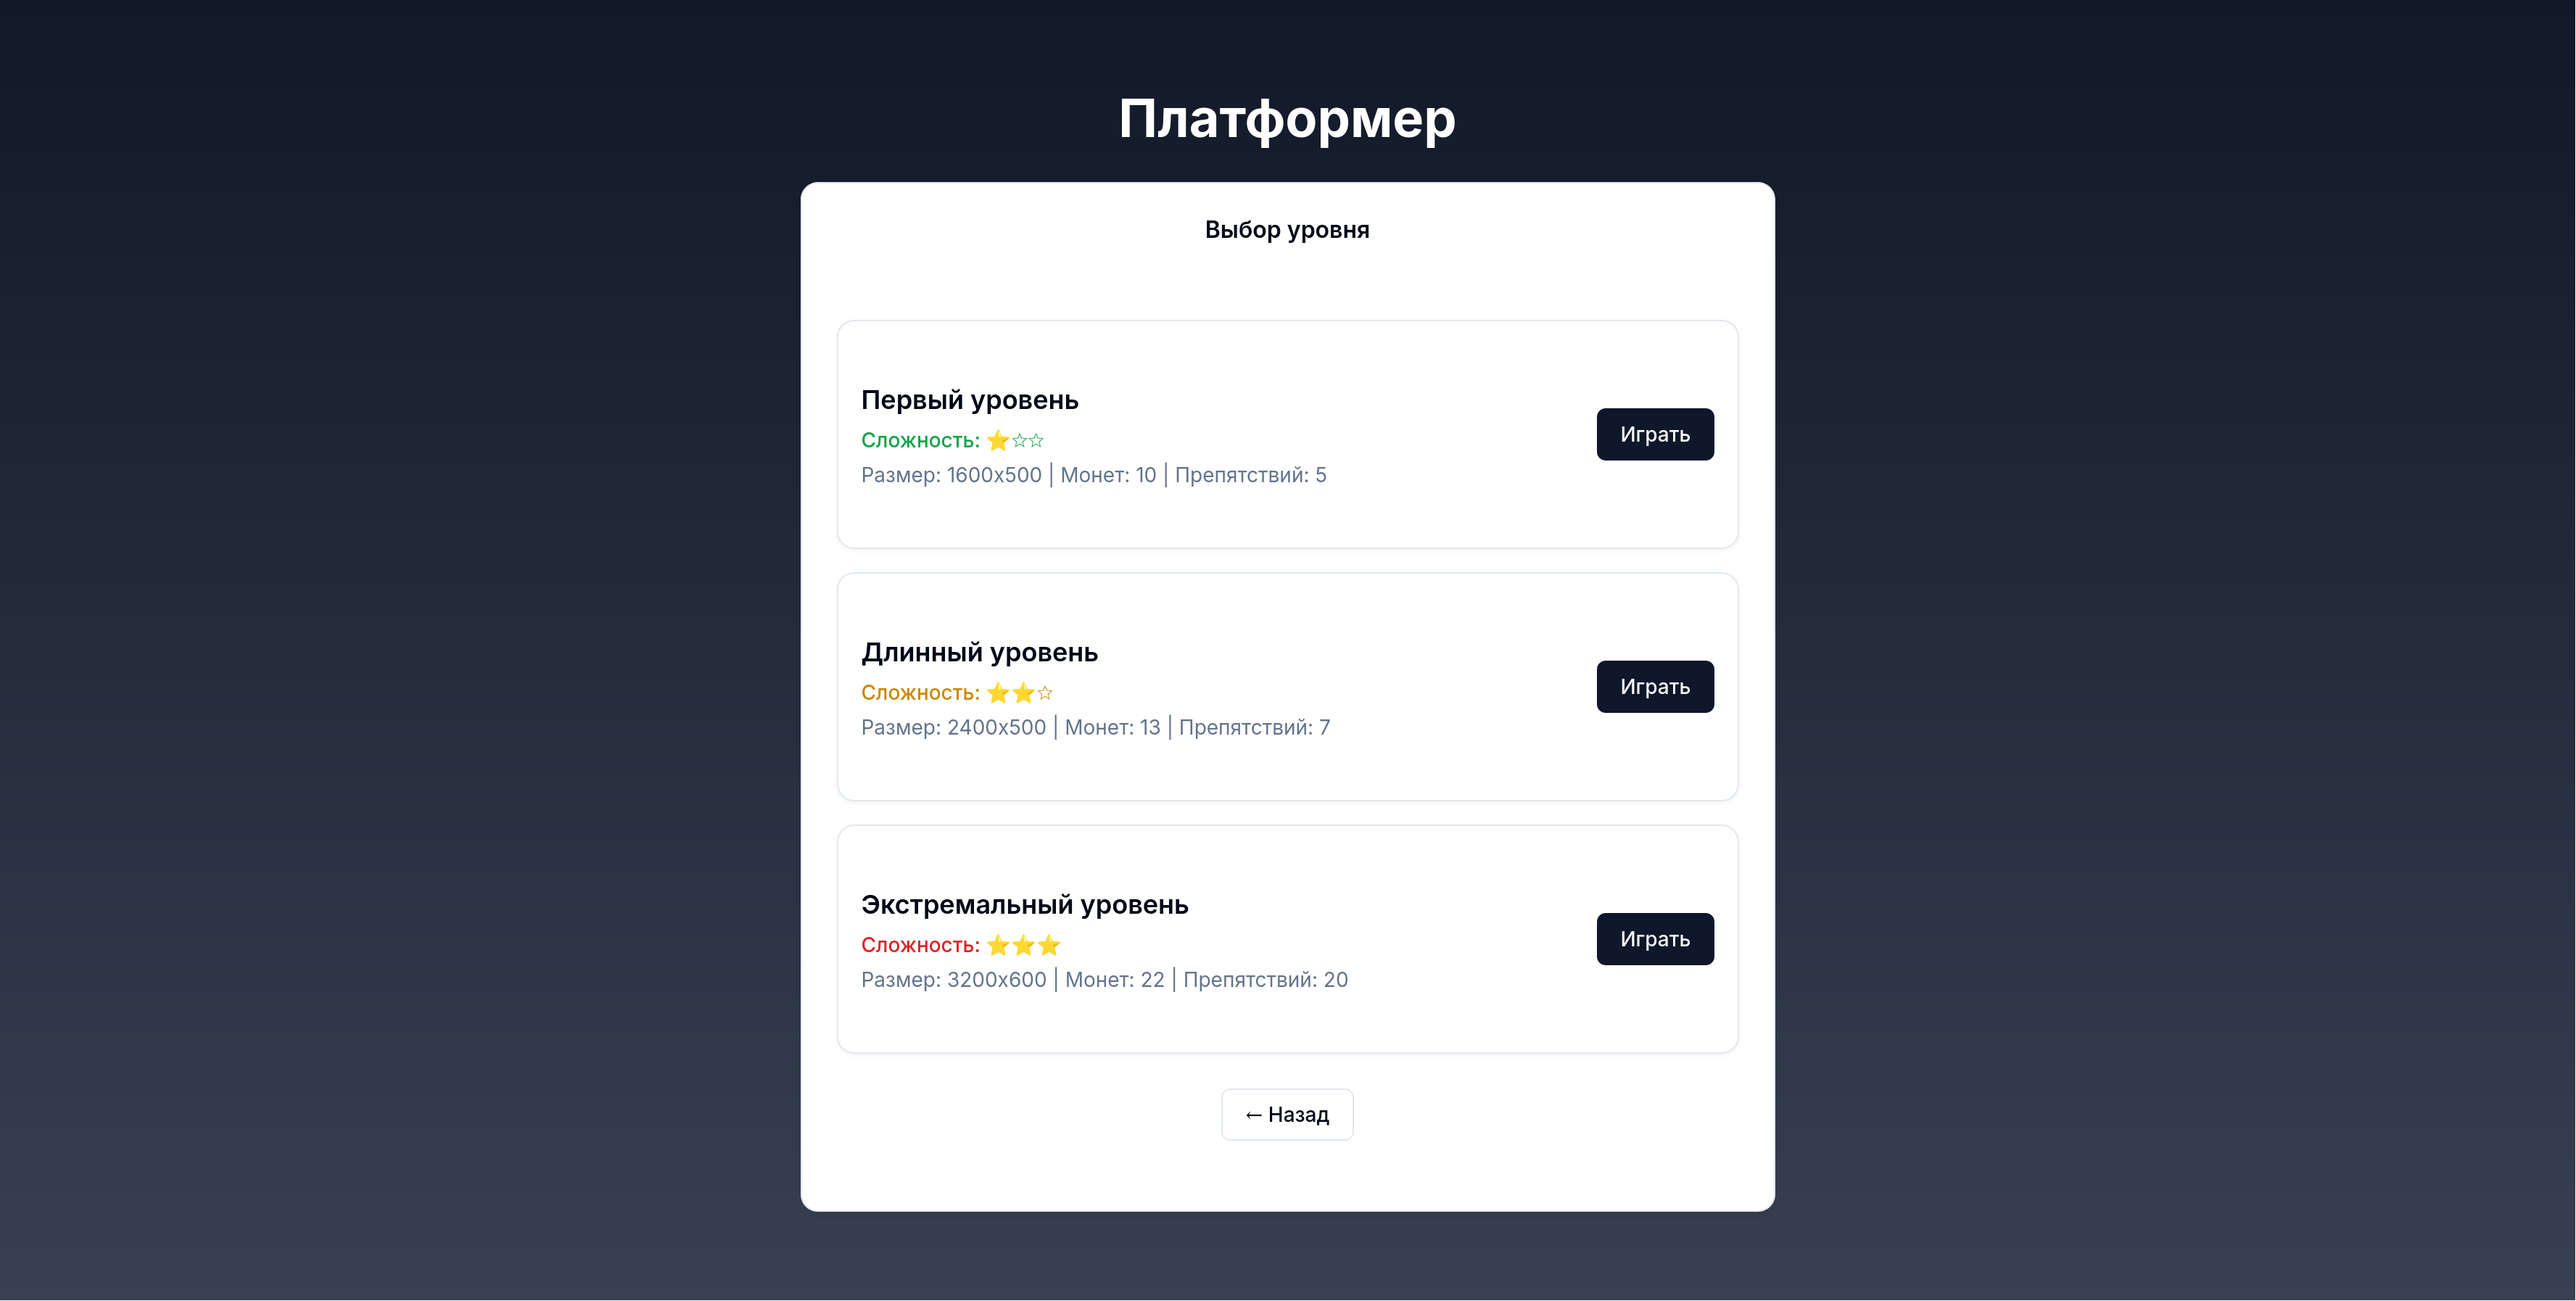
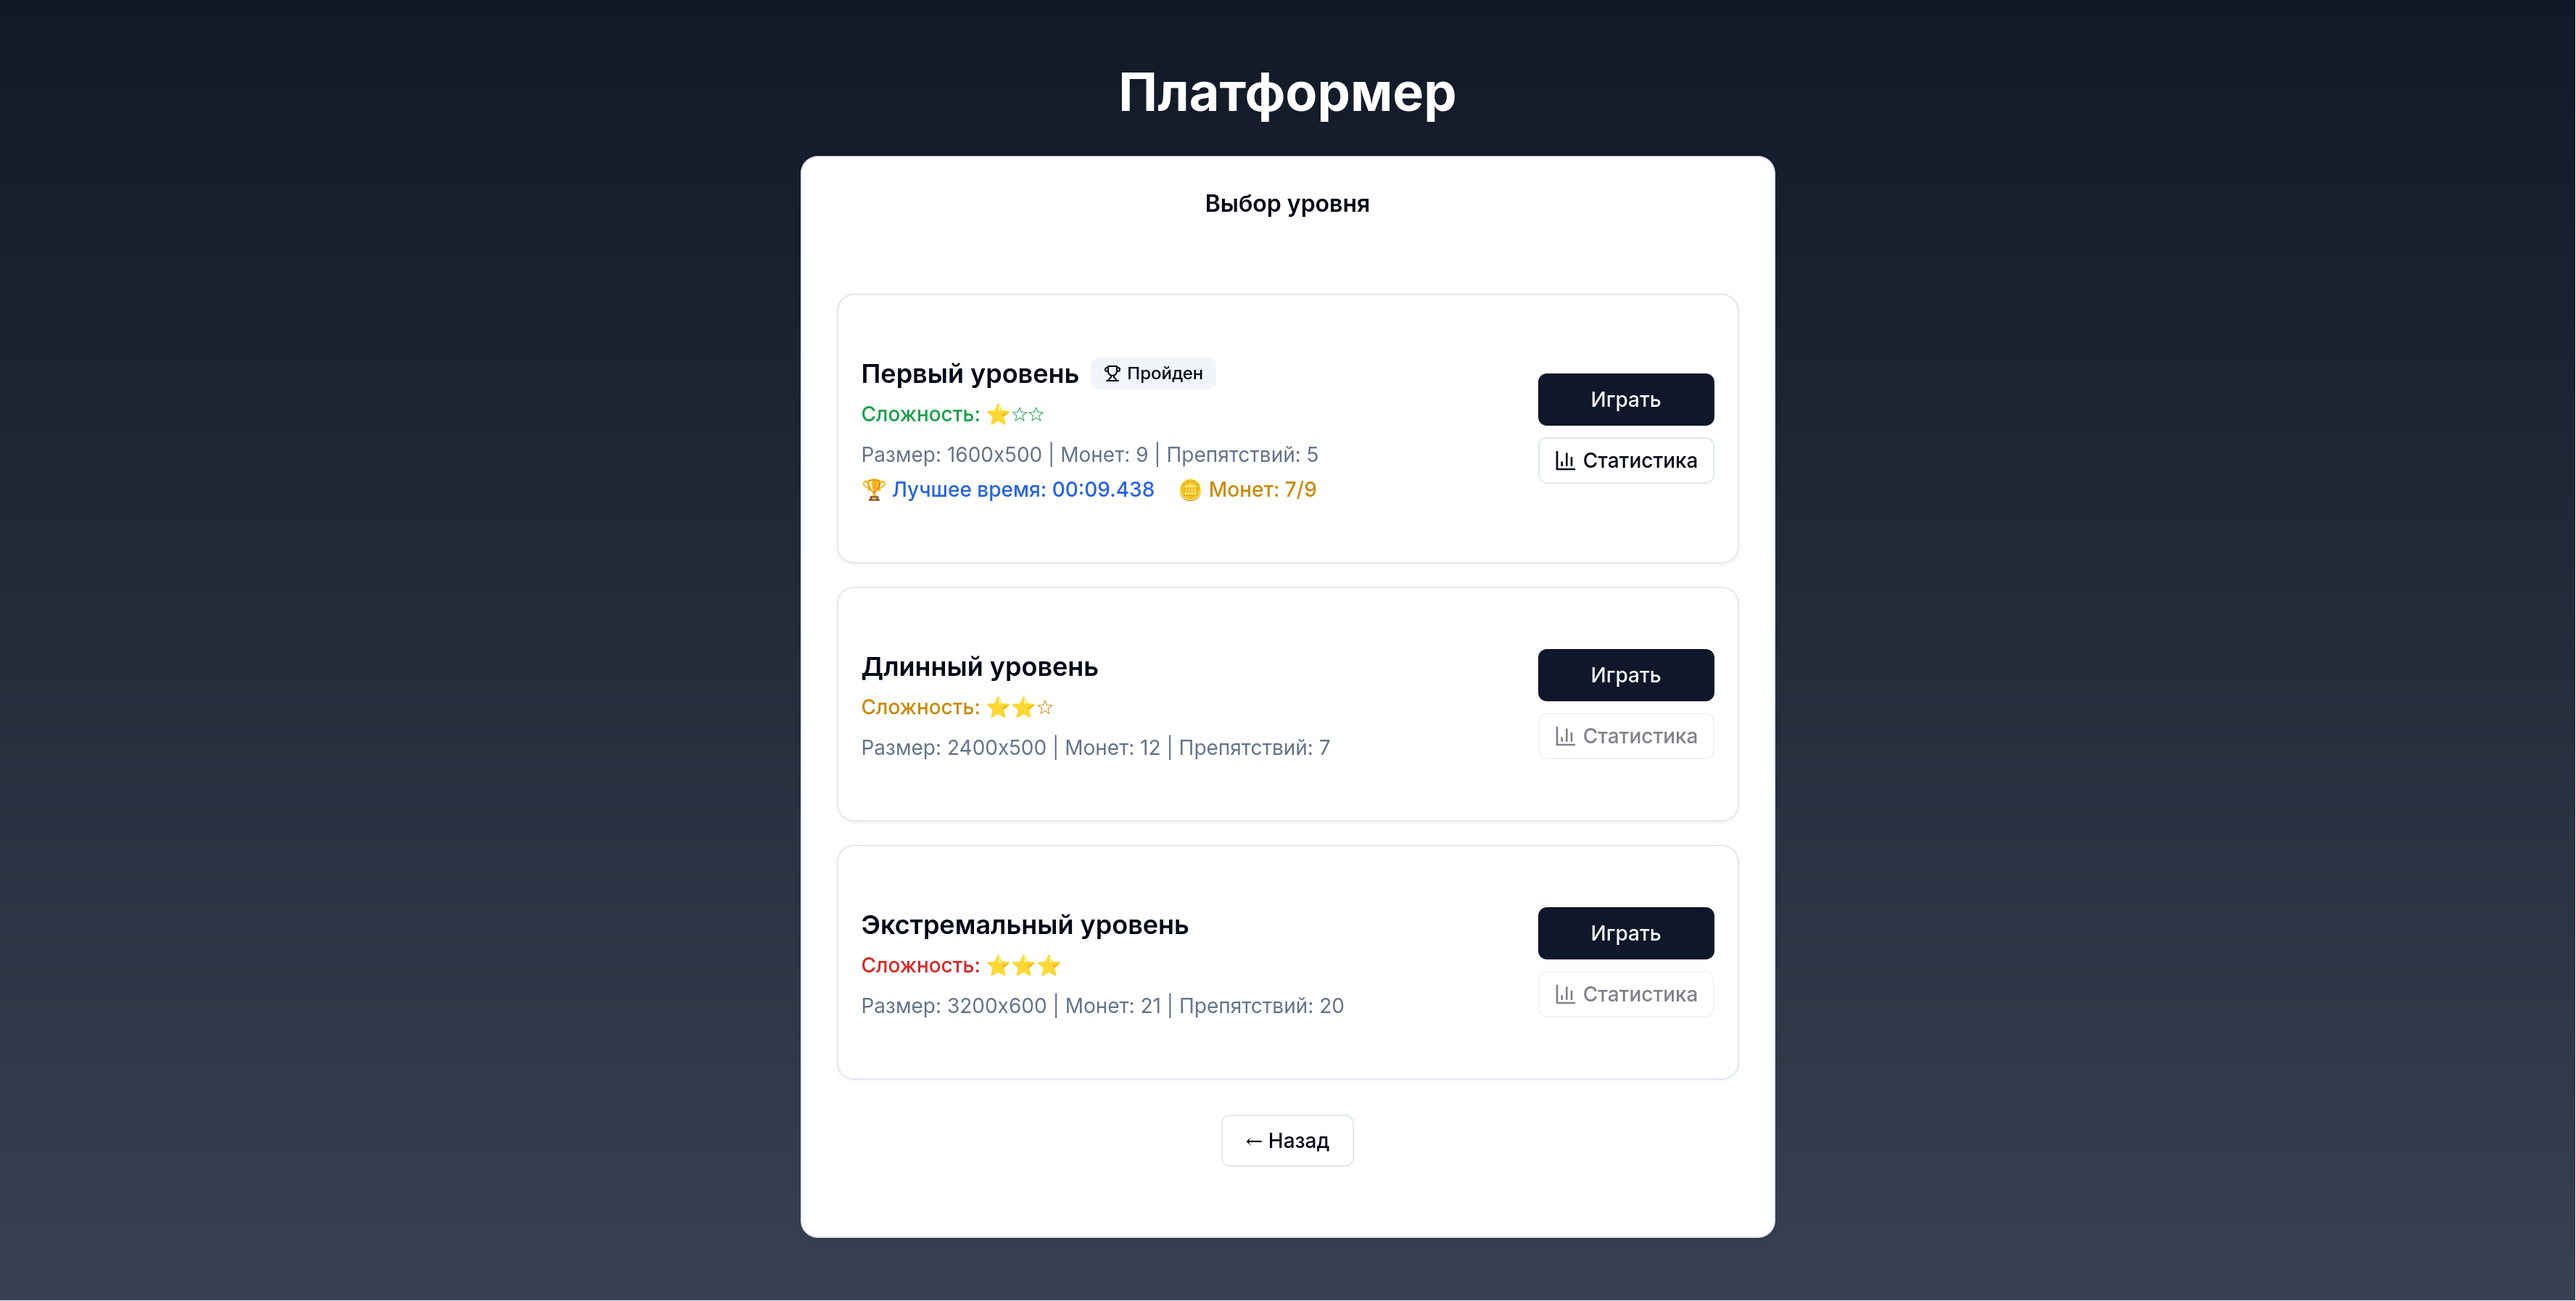
update game buttons + update examples

diff --git a/components/game-container.tsx b/components/game-container.tsx
@@ -3,12 +3,13 @@
 import { useEffect, useRef, useState, useCallback } from "react"
 import { Button } from "@/components/ui/button"
 import { Card, CardContent } from "@/components/ui/card"
-import { ActiveGameStatistics, useGame } from "@/hooks/use-game"
+import { type ActiveGameStatistics, useGame } from "@/hooks/use-game"
 import { useMobile } from "@/hooks/use-mobile"
 import { levelRegistry } from "@/lib/game/level-registry"
 import { SettingsStorage, type GameSettings } from "@/lib/settings-storage"
 import { StatisticsStorage } from "@/lib/statistics-storage"
 import { soundManager } from "@/lib/sound-manager"
+import { ArrowLeft, RotateCcw } from "lucide-react"
 import MobileControls from "@/components/mobile-controls"
 import GameMenu from "@/components/game-menu"
 import LevelSelector from "@/components/level-selector"
@@ -59,13 +60,7 @@ export default function GameContainer() {
         stopTimer()
         setGameOver(true)
 
-        StatisticsStorage.updateLevelStatistics(
-          stats.levelId,
-          null,
-          stats.coinsCollected,
-          stats.totalCoins,
-          false,
-        )
+        StatisticsStorage.updateLevelStatistics(stats.levelId, null, stats.coinsCollected, stats.totalCoins, false)
       },
       onGameWon: (stats: ActiveGameStatistics) => {
         if (isMobile) {
@@ -464,13 +459,25 @@ export default function GameContainer() {
                   <div className="text-xl font-bold text-blue-600 font-mono">Время: {formatTime(currentTime)}</div>
                 )}
               </div>
-              <div className="flex flex-col sm:flex-row gap-2">
-                <Button variant="outline" onClick={handleBackToPrevious} className="w-full sm:w-auto">
-                  ← Назад
+              <div className="flex gap-2">
+                <Button
+                  variant="outline"
+                  size="sm"
+                  onClick={handleBackToPrevious}
+                  className="h-8 w-8 p-0"
+                  title="Назад"
+                >
+                  <ArrowLeft className="h-4 w-4" />
                 </Button>
                 {gameState === "playing" && !gameOver && !gameWon && (
-                  <Button variant="outline" onClick={handleRestartGame} className="w-full sm:w-auto">
-                    Начать заново
+                  <Button
+                    variant="outline"
+                    size="sm"
+                    onClick={handleRestartGame}
+                    className="h-8 w-8 p-0"
+                    title="Начать заново"
+                  >
+                    <RotateCcw className="h-4 w-4" />
                   </Button>
                 )}
               </div>
